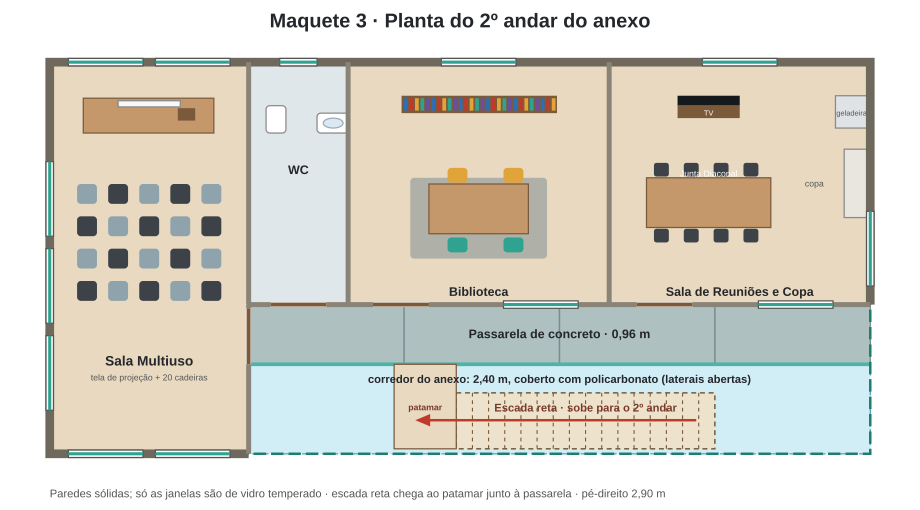
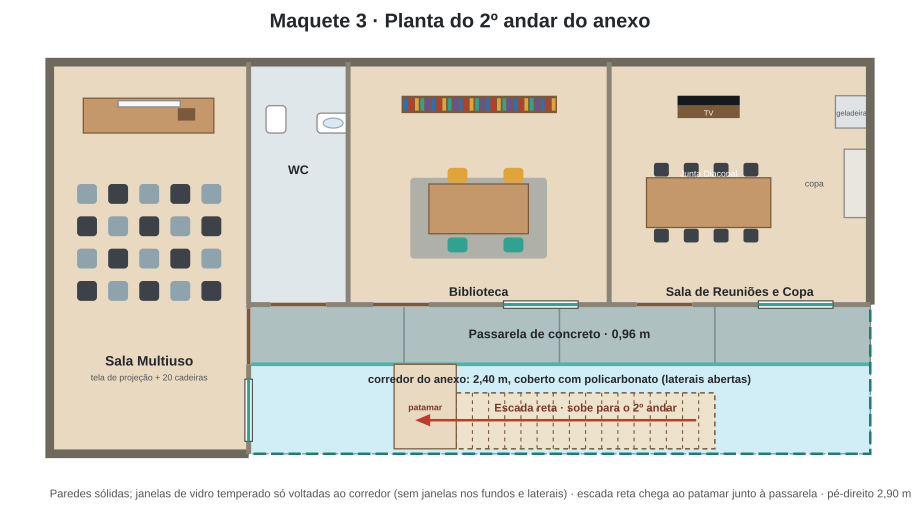
Etapa 100: janelas do anexo só voltadas ao corredor
Claude-Session: https://claude.ai/code/session_015gh4tS64wXyJ2ghbw66cFX

diff --git a/projeto3/maquete.html b/projeto3/maquete.html
@@ -1542,9 +1542,10 @@
     fl(40, 40, 200, 275, C.salaAnexo); fl(200, 40, 280, 155, 0xdfe7ea); fl(280, 40, 490, 155, C.salaAnexo);
     fl(490, 40, 700, 155, C.salaAnexo);   // Etapa 72: paredes do 2º andar alinhadas às do térreo (x280 e x490)
     // paredes
-    uwall(true, 40, 40, 700, 'ext', [W(85), W(155), W(240, 30), W(385), W(595)]);
-    uwall(false, 40, 40, 275, 'ext', [W(70), W(140), W(210)]); uwall(true, 275, 40, 200, 'ext', [W(85), W(155)]); uwall(false, 700, 40, 155, 'ext', [W(110)]);
-    uwall(false, 200, 40, 155, 'int'); uwall(false, 200, 155, 275, 'int', [D(158, 203)]);
+    // Etapa 100: sem janelas nos fundos, nas laterais nem na frente (casas e prédios vizinhos); as janelas ficam só nas paredes voltadas ao corredor do anexo
+    uwall(true, 40, 40, 700, 'ext', []);
+    uwall(false, 40, 40, 275, 'ext', []); uwall(true, 275, 40, 200, 'ext', []); uwall(false, 700, 40, 155, 'ext', []);
+    uwall(false, 200, 40, 155, 'int'); uwall(false, 200, 155, 275, 'int', [D(158, 203), W(240, 50)]);   // Etapa 100: janela da Sala Multiuso voltada para o corredor
     uwall(true, 155, 200, 280, 'int', [D(217.5, 262.5)]); uwall(false, 280, 40, 155, 'int');
     uwall(true, 155, 280, 490, 'int', [D(300, 345), W(435)]); uwall(false, 490, 40, 155, 'int');
     uwall(true, 155, 490, 700, 'int', [D(512, 557), W(640)]);
